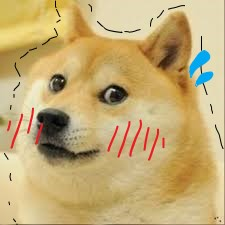
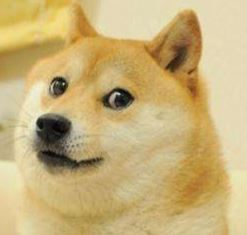
'index'

diff --git a/scripts/main.js b/scripts/main.js
@@ -1,5 +1,10 @@
-var myhair = document.querySelector('h1');
-myhair.textContent = 'Hello world';
-document.querySelector('html').onclick = function(){
-	alert('良い...良いと快適');
+var myImage = document.querySelector('img');
+
+myImage.onclick = function() {
+	var mySrc = myImage.getAttribute('src');
+	if(mySrc === 'images/dog.jpg') {
+		myImage.setAttribute ('src','images/shydog.jpg');
+	} else {
+		myImage.setAttribute ('src','images/dog.jpg');
+	}
 }
